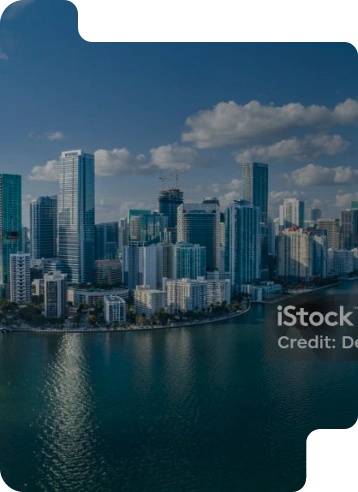
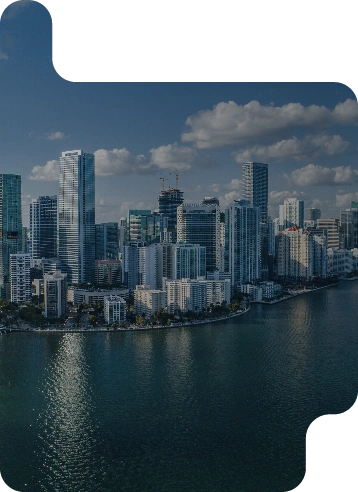
change image in programs page

diff --git a/resource-hub/index.html b/resource-hub/index.html
@@ -481,7 +481,7 @@
                             <h3>BUILT IN MIAMI (INCUBATOR/ ACCELERATOR)</h3>
 
                             <p>
-                                To date nearly 300 participants
+                                To date 400+ participants have completed the program.
                             </p>
                         </div>
                     </div>
@@ -502,16 +502,15 @@
                             <h3>WORKFORCE DEVELOPMENT VENTURE MIAMI SCHOLARSHIP </h3>
 
                             <p>
-                                Recipients who are pursuing a STEM
-                                degree and are also Pell Grant recipients, scholarships, 
-                                Future Mobility Summit, etc.
+                                95+ tuition scholarships awarded for Pell 
+                                Grant students pursuing STEM degrees to build talent pipeline.
                             </p>
                         </div>
                     </div>
 
                     <div class="col-12 col-lg-3">
                         <div class="card card-4">
-                            <h3>NETWORK ACCESS TO INVESTORS, INDUSTRY EXPERTS, ENTREPRENEURS.</h3>
+                            <h3>NETWORK ACCESS TO INVESTORS, INDUSTRY EXPERTS, ENTREPRENEURS</h3>
                         </div>
                     </div>
                 </div>
@@ -523,7 +522,7 @@
                                 <h3>BUILT IN MIAMI (INCUBATOR/ ACCELERATOR)</h3>
     
                                 <p>
-                                    To date nearly 300 participants
+                                    To date 400+ participants have completed the program.
                                 </p>
                             </div>
                         </div>
@@ -544,16 +543,15 @@
                                 <h3>WORKFORCE DEVELOPMENT VENTURE MIAMI SCHOLARSHIP</h3>
     
                                 <p>
-                                    Recipients who are pursuing a STEM
-                                    degree and are also Pell Grant recipients, scholarships, 
-                                    Future Mobility Summit, etc.
+                                    95+ tuition scholarships awarded for Pell Grant 
+                                    students pursuing STEM degrees to build talent pipeline.
                                 </p>
                             </div>
                         </div>
 
                         <div class="slide">
                             <div class="card card-4">
-                                <h3>NETWORK ACCESS TO INVESTORS, INDUSTRY EXPERTS, ENTREPRENEURS.</h3>
+                                <h3>NETWORK ACCESS TO INVESTORS, INDUSTRY EXPERTS, ENTREPRENEURS</h3>
                             </div>
                         </div>
                     </div>

diff --git a/programs-and-initiatives/Styles/style.css b/programs-and-initiatives/Styles/style.css
@@ -423,7 +423,7 @@ header {
                     url('../images/advacing-business-img-3.png');
                 background-repeat: no-repeat;
                 background-size: cover;
-                background-position: center;  
+                background-position: center left 50%;  
             }
 
 
